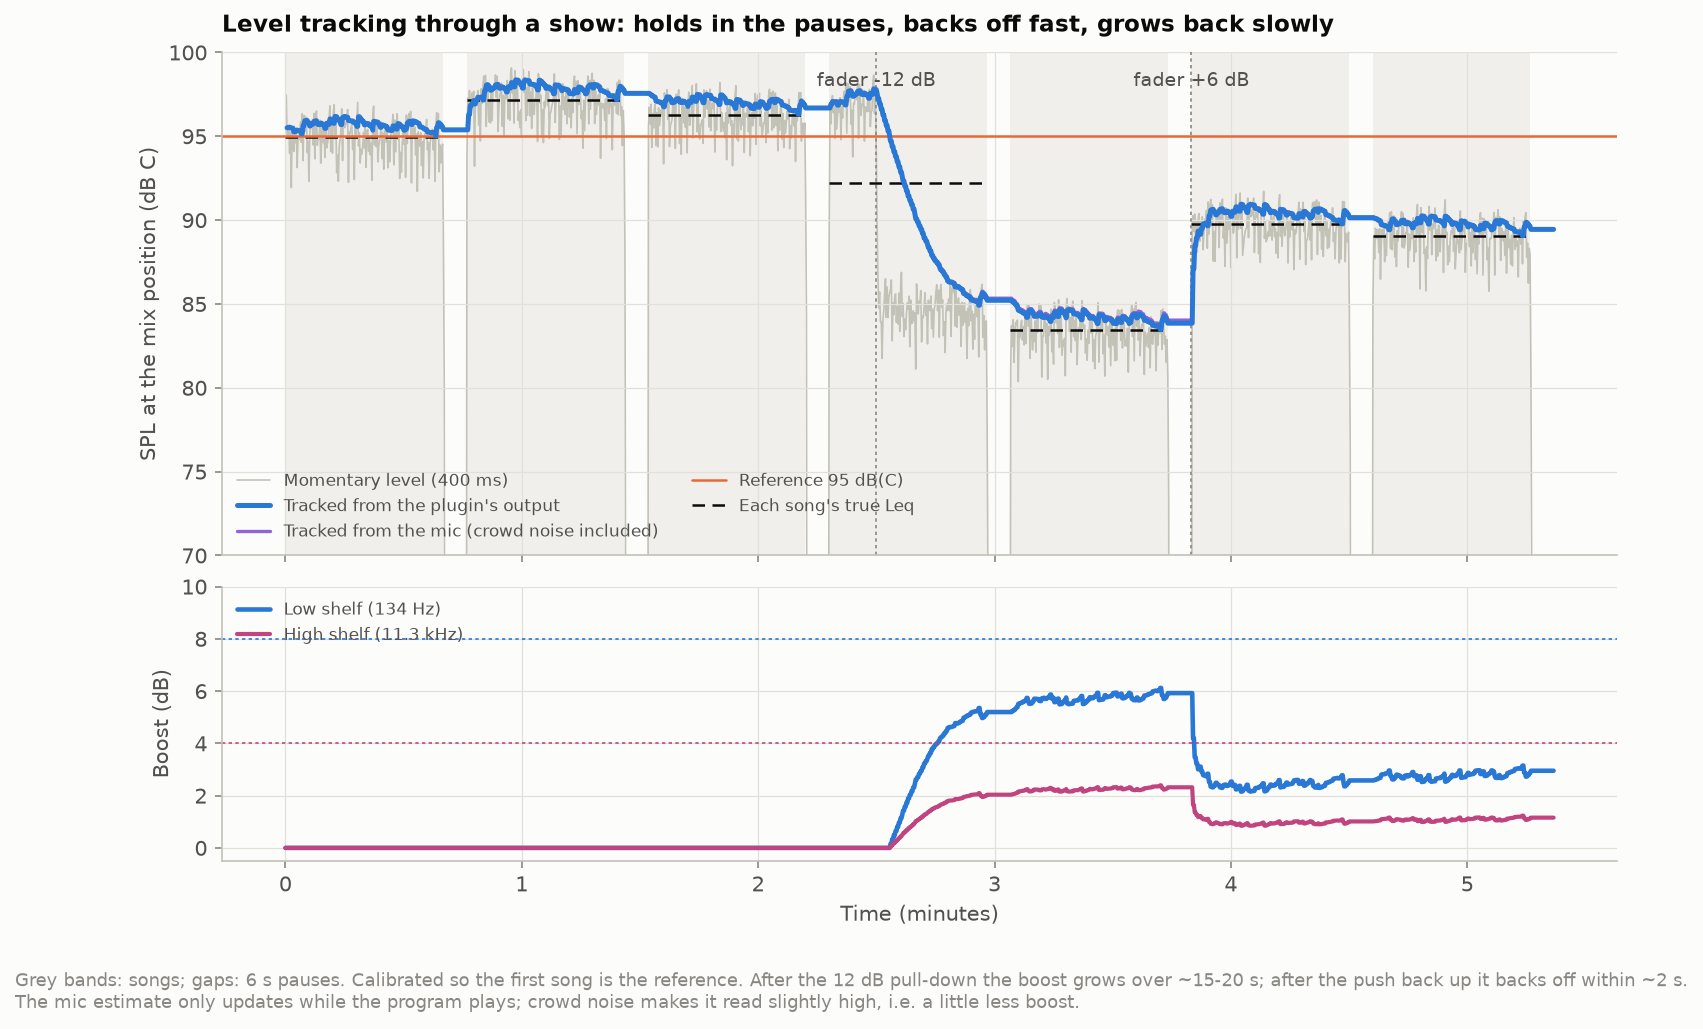
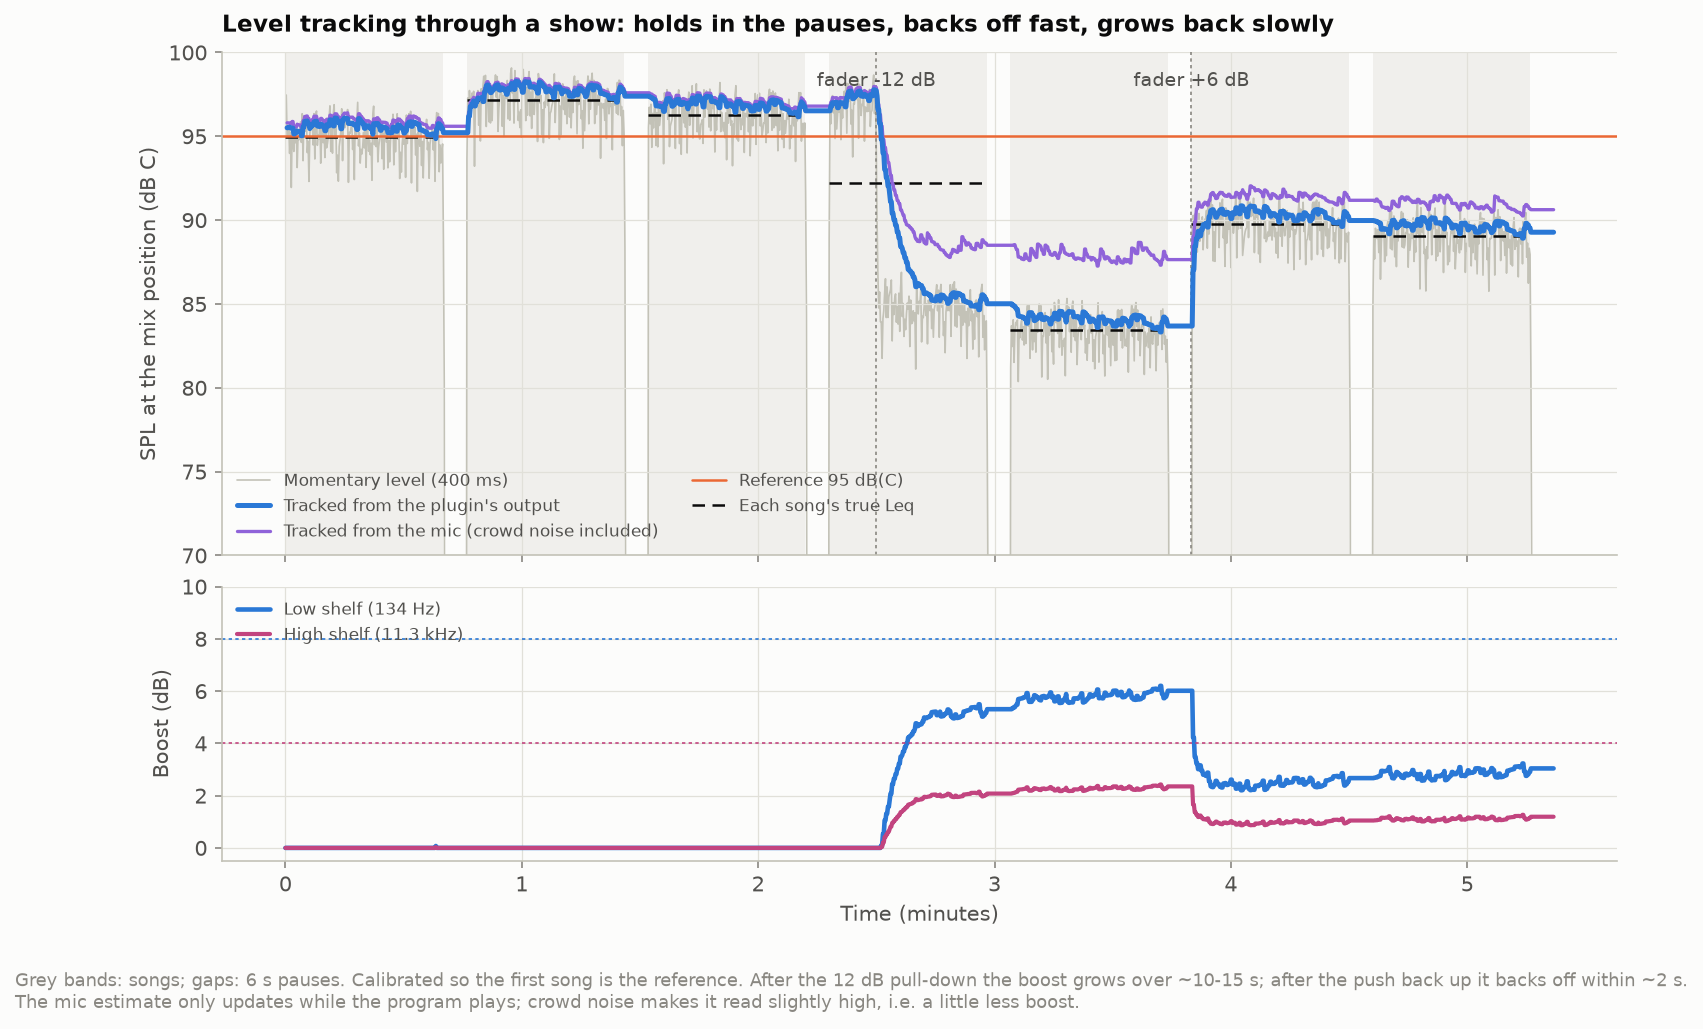
Track falling levels in dB; finish the Phase 3 review plots
The level tracker's fall is now smoothed in dB with `speed` as the time
constant (rises stay a fast energy average). After a 12 dB pull-down
the estimate settles within 1 dB in ~13 s instead of ~21 s, with a
slightly smaller upward lean on music (+0.7 dB, errs towards less
boost). Tests, plot 13's caption (including how crowd noise makes mic
tracking read high at low show levels) and the README follow.

Claude-Session: https://claude.ai/code/session_0183bro7tD7dj58NBGzjNooN

diff --git a/prototype/roomeq/loudness.py b/prototype/roomeq/loudness.py
@@ -12,9 +12,10 @@ SPL and the reference SPL is applied as a low shelf and a high shelf.
   gains against dB below reference). Gains glide; nothing is refitted live.
 - Limits: amount, max low boost, max high boost, and a fixed low-boost
   ceiling nothing can exceed.
-- Tracking: 400 ms C-weighted momentary level; the estimate rises with a
-  ~1 s time constant (boost backs off quickly when it gets louder) and falls
-  with `speed` (boost grows slowly when it gets quieter). Silence, and
+- Tracking: 400 ms C-weighted momentary level; the estimate rises as a ~1 s
+  energy average (boost backs off quickly when it gets louder) and falls in
+  dB with `speed` as the time constant (boost grows slowly when it gets
+  quieter). Silence, and
   anything more than 20 dB below the estimate, is a pause and holds the
   estimate - but a drop that lasts longer than `pause_hold_s` is real and is
   followed.
@@ -237,9 +238,13 @@ class LevelTracker:
                 return False                                     # a pause between songs: hold
         else:
             self.gated_for = 0.0
-        tau = cfg.attack_s if momentary > self.estimate else cfg.speed_s
-        # Smooth in the power domain, so the estimate is an energy average (Leq-like).
-        a = 1 - np.exp(-dt / tau)
-        p = (1 - a) * 10 ** (self.estimate / 10) + a * 10 ** (momentary / 10)
-        self.estimate = 10 * np.log10(p)
+        if momentary > self.estimate:
+            # Rising: energy average (Leq-like), fast, so the boost backs off quickly.
+            a = 1 - np.exp(-dt / cfg.attack_s)
+            self.estimate = 10 * np.log10((1 - a) * 10 ** (self.estimate / 10) + a * 10 ** (momentary / 10))
+        else:
+            # Falling: in dB, with `speed` as the time constant (a 12 dB drop settles
+            # to within 1 dB in ~2.5 x speed; in the power domain it would take ~4x).
+            a = 1 - np.exp(-dt / cfg.speed_s)
+            self.estimate += a * (momentary - self.estimate)
         return True

diff --git a/prototype/make_phase3_plots.py b/prototype/make_phase3_plots.py
@@ -141,7 +141,7 @@ def plot_tracking():
     ax2.set_xlabel("Time (minutes)")
     ax2.legend(loc="upper left", fontsize=8)
     fig.text(0.01, -0.03, "Grey bands: songs; gaps: 6 s pauses. Calibrated so the first song is the reference. After the "
-             "12 dB pull-down the boost grows over ~15-20 s; after the push back up it backs off within ~2 s.\nThe mic "
+             "12 dB pull-down the boost grows over ~10-15 s; after the push back up it backs off within ~2 s.\nThe mic "
              "estimate only updates while the program plays; crowd noise makes it read slightly high, i.e. a little less boost.",
              color=MUTED, fontsize=8.5)
     save(fig, "13_level_tracking.png")

diff --git a/prototype/tests/test_loudness.py b/prototype/tests/test_loudness.py
@@ -144,7 +144,7 @@ def test_rises_fast_falls_slowly():
     assert first_within_1db < 2.5                                                   # boost backs off quickly
     down = run(tr, pink(40, -26.0, seed=6))
     first_within_1db = np.argmax(np.abs(down - (-26.0)) < 1.0) * block / fs
-    assert 8.0 < first_within_1db < 25.0                                            # and grows back slowly
+    assert 8.0 < first_within_1db < 16.0                                            # and grows back slowly
 
 
 def test_mic_tracking_ignores_the_crowd_in_pauses():

diff --git a/prototype/README.md b/prototype/README.md
@@ -65,7 +65,8 @@ Re-measuring the simulated club through the fitted filters lands within 0.3–0.
 
 1. **Calibration:** pink noise plays on both speakers. The C-weighted level at the loudness stage's input (after correction and voicing) is paired with the SPL at the mix position: typed in from a meter (dB C, slow) or read by a calibrated mic. The mic's own level is noted at the same time, so an uncalibrated measurement mic can track SPL later.
 2. **Tracking:** 400 ms C-weighted momentary levels.
-   - The estimate rises with a 1 s time constant, so the boost backs off quickly when it gets louder. It falls with the **speed** setting (5 s), so the boost grows slowly when it gets quieter.
+   - The estimate rises as a 1 s energy average, so the boost backs off quickly when it gets louder. It falls in dB with the **speed** setting (5 s) as its time constant, so the boost grows slowly when it gets quieter: after a 12 dB pull-down it settles in about 13 s.
+   - Rising faster than falling makes it read a fraction of a dB high on music (+0.7 dB in the simulation), which errs towards less boost.
    - Silence, and anything more than 20 dB below the estimate, counts as a pause and holds the estimate. A drop that lasts longer than 8 s is real and is followed.
    - Mic tracking only updates while the plugin's output shows program playing.
 3. **Target:** the ISO 226 contour difference between the current SPL and the reference, `[Lp(f, now) − now] − [Lp(f, ref) − ref]`, zero at or above the reference.
